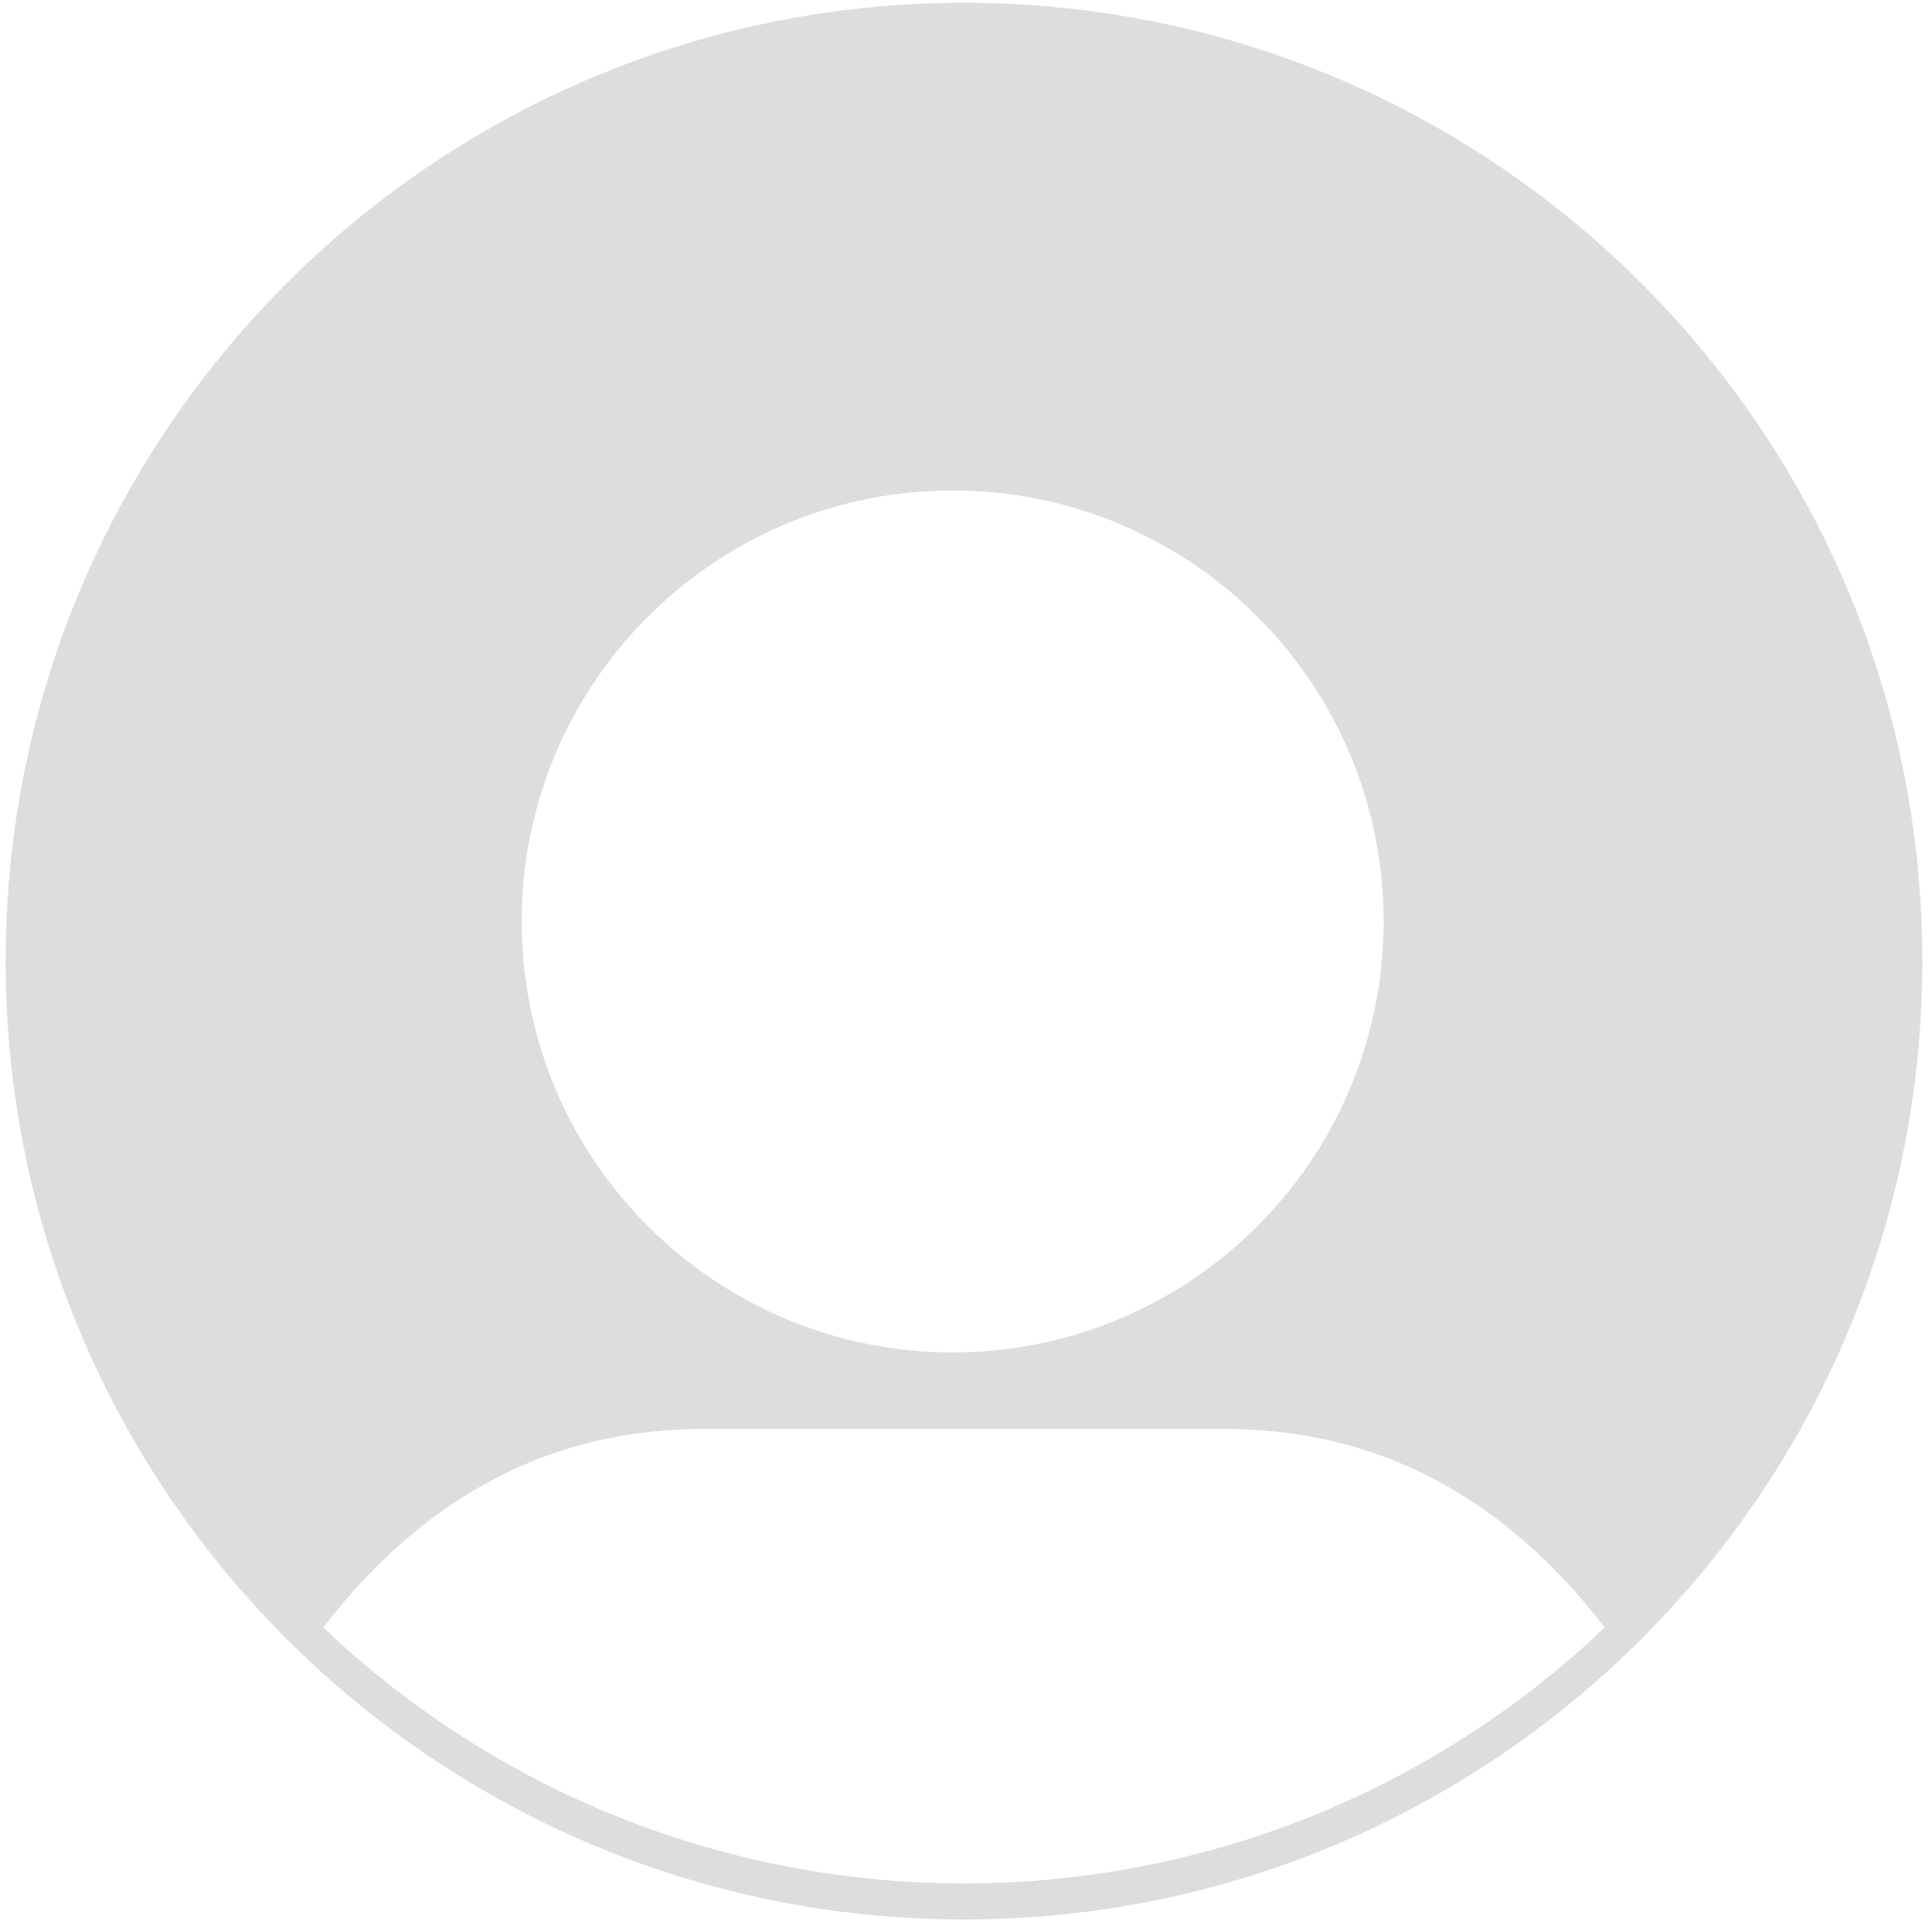
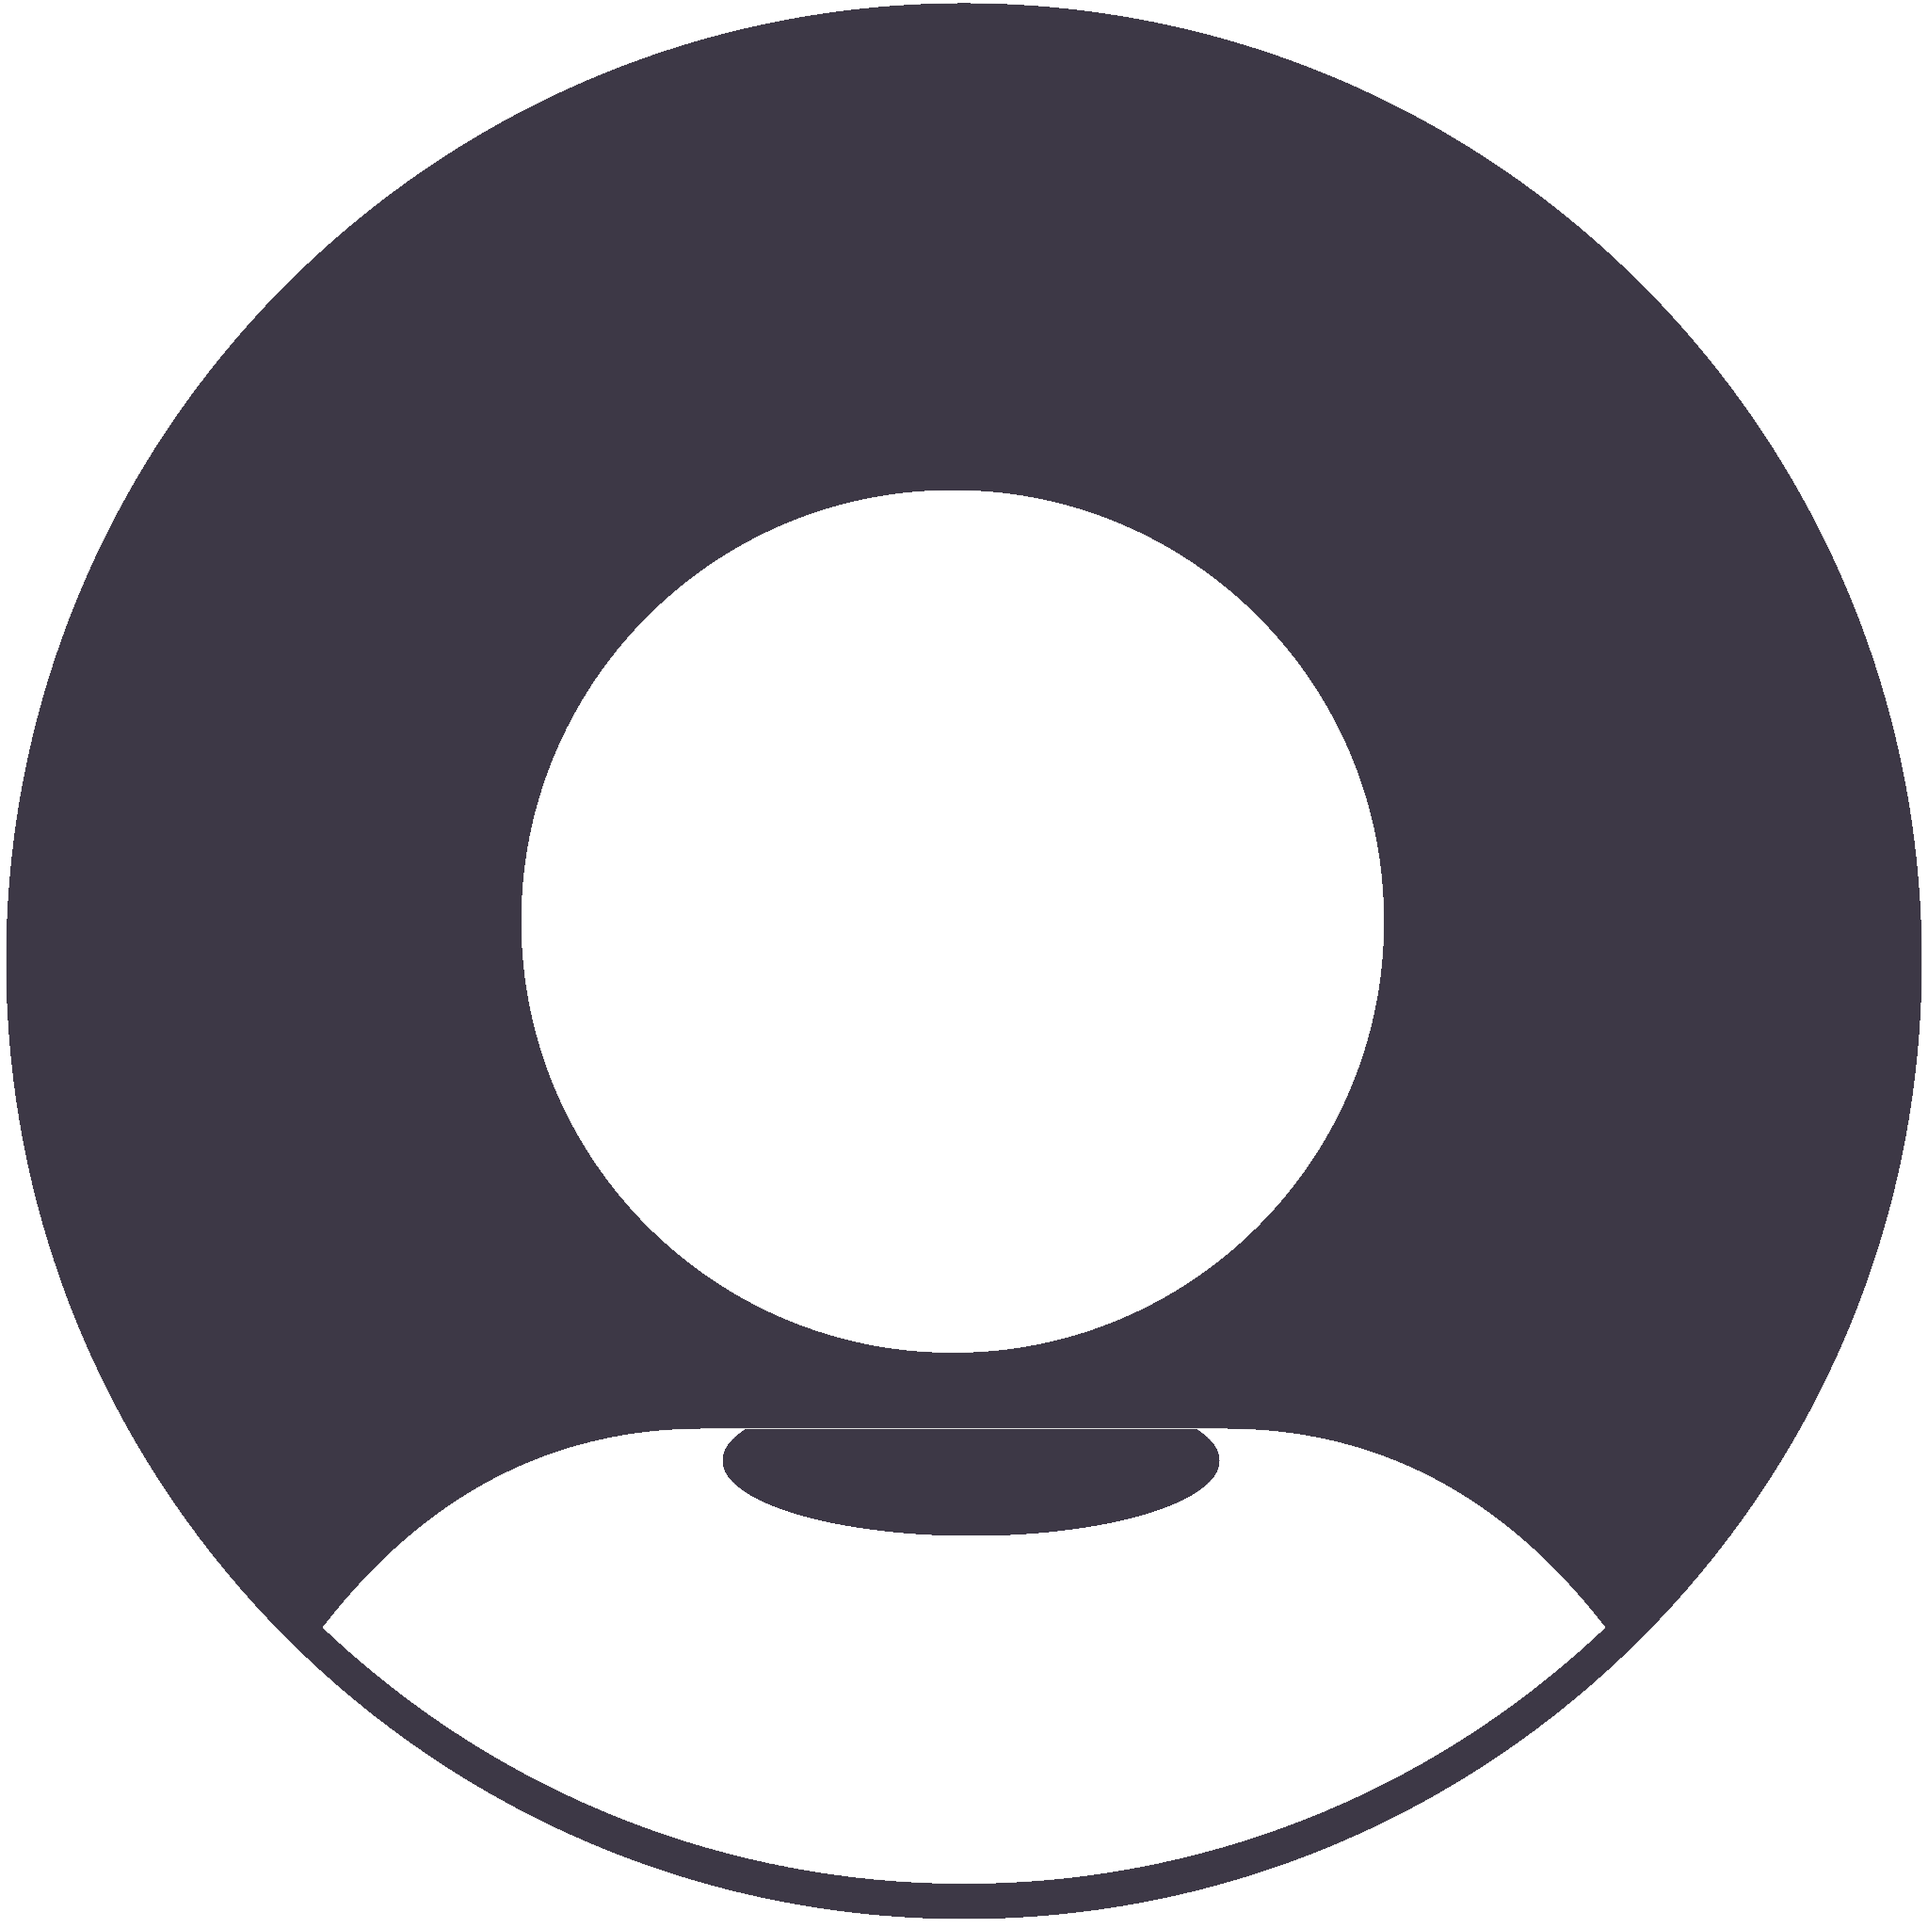
Add files via upload

diff --git a/master/footer-style.css b/master/footer-style.css
@@ -1,6 +1,6 @@
 .site-footer {
   width: 100%;
-  background-color: rgb(15, 122, 255);
+  background-color: rgb(18, 27, 63);
   color: white;
   padding: 20px 0;
   box-shadow: 0 0 20px rgba(0, 0, 0, 0.1);
@@ -12,16 +12,15 @@
 }
 
 .blue-section {
-  opacity: 50%;
   position: absolute;
   top: 0;
-  left: 0;
+  right: 0; /* Changed from left: 0; */
   width: 15%; /* Initial 25% width */
   height: 100%;
-  transform: skewX(+30deg);
-  background-color: blue; /* Initial blue color */
+  transform: skewX(-30deg); /* Changed from skewX(+30deg); */
+  background-color: rgb(14, 22, 56); /* Initial blue color */
   transition: width 0.5s ease, background-color 0.5s ease; /* Add a smooth transition effect */
-  z-index: 0;
+  z-index: 100;
 }
 
 .footer-container {
@@ -127,7 +126,8 @@
   }
 
   .blue-section {
-    transform: skewX(+15deg);
+    transform: skewX(-15deg); /* Changed from skewX(+15deg); */
   }
 }
+
 

diff --git a/master/products/style-card.css b/master/products/style-card.css
@@ -1,12 +1,10 @@
-
-
 .card {
   display: inline-block; /* Display cards next to each other */
   vertical-align: top; /* Align cards to the top */
   margin-right: 1.5px; /* Add some margin between cards */
   position: relative;
   width: 245px;
-  height: 350px;
+  height: 280px;
   
   border-radius: 10px;
   overflow: hidden;

diff --git a/master/products/card.html b/master/products/card.html
@@ -36,7 +36,7 @@
         </div>
 
         <p class="desc">
-            Description not available.
+            No Description.
         </p>
 
         <button>Read More</button>

diff --git a/profile/profile-page.php b/profile/profile-page.php
@@ -57,7 +57,9 @@
         }   
 
         form {
-            margin: 200px auto;
+            margin: 50px auto;
+            width: 300px;
+            height: 400px;
             text-align: center;
             padding: 20px;
             border: 1px solid #ccc;
@@ -71,7 +73,43 @@
         .fade-in form {
             opacity: 1;
         }
+
+        .order-status {
+            background-color: #ddd;
+            padding: 10px;
+            margin-top: 20px;
+            border-radius: 10px;
+        }
+
+        .delete-button {
+            background-color: rgb(237, 43, 43);
+            color: white;
+            border: none;
+            padding: 10px 10px;
+            position: absolute;
+            bottom: 20px;
+            right: 20px;
+            border-radius: 50px;
+            cursor: pointer;
+        }
+
+        .delete-button:hover {
+            background-color: rgb(189, 32, 32);
+        }
+
+
+        @media screen and (max-width: 700px) {
+            .back-link {
+                top: 20px; 
+                left: 10px; 
+            } 
+        }
+
     </style>
+
+
+
+
     <link rel="icon" type="image/x-icon" href="/project/favicon.ico">
     <link rel="stylesheet" href="../master/footer-style.css">
 </head>
@@ -82,8 +120,37 @@
     </div>
 
     <form class="fade-in" id="success-container">
-        <h1>[USERNAME]</h1>
-        <p>Orders:</p>
+        <h1>
+
+            <img src="../res/Default_pfp.png" width="110" height="110">
+
+        </h1>
+
+        <h2>
+        <?php
+        // Start session
+        session_start();
+
+        // Check if the username is set in the session
+        if (isset($_SESSION['username'])) {
+            // Retrieve the username from the session
+            $username = $_SESSION['username'];
+            
+            echo "<h1>$username</h1>";
+        } else {
+            // If username is not set, display default message
+            header("Location: /project/Login/construct.php");
+        }
+        ?>
+        </h2>
+
+        <h3 style="text-align: left;">Orders:</h3>
+        <div class="order-status">
+            <!-- Add your order status here -->
+        </div>
+
+        <button class="delete-button">Delete Account</button>
+
     </form>
 
     <?php include '../master/footer.php'; ?>

diff --git a/master/footer.php b/master/footer.php
@@ -36,28 +36,35 @@
     
 
 
-    
     <script>
-$(document).ready(function () {
+  $(document).ready(function () {
     var startScrollEffect = false; // Flag to determine when to start the effect
     var thresholdPercentage = 50; // Set the threshold percentage to start the effect
 
+    // Set the initial width of the blue section to 100% when the document is ready
+    $(".blue-section").css("width", "100%");
+
     $(window).scroll(function () {
-        var scrollPercentage = ($(window).scrollTop() / ($(document).height() - $(window).height())) * 100;
+      var scrollPercentage = ($(window).scrollTop() / ($(document).height() - $(window).height())) * 100;
+      var blueSectionWidth = 100 - Math.min(25 + scrollPercentage, 100); // Calculate the width of the blue section
 
-        // Check if the scroll percentage has reached the threshold
-        if (scrollPercentage >= thresholdPercentage) {
-            // Set the flag to true, indicating to start the effect
-            startScrollEffect = true;
-        }
+      // Check if the scroll percentage has reached the threshold
+      if (scrollPercentage >= thresholdPercentage) {
+        // Set the flag to true, indicating to start the effect
+        startScrollEffect = true;
+      }
 
-        // Apply the effect only if the flag is true
-        if (startScrollEffect) {
-            // Adjust the blue section width based on the scroll percentage
-            $(".blue-section").css("width", Math.min(25 + scrollPercentage, 100) + "%");
-        }
+      // Adjust the blue section width based on the scroll percentage
+      $(".blue-section").css("width", blueSectionWidth + "%");
+
+      // Set the initial width to 100% if the scroll percentage is less than the threshold
+      if (scrollPercentage < thresholdPercentage && !startScrollEffect) {
+        $(".blue-section").css("width", "100%");
+      } else if (scrollPercentage === 0) {
+        $(".blue-section").css("width", "100%");
+        startScrollEffect = false; // Reset the flag when scrolling back to the top
+      }
     });
-});
+  });
+</script>
 
-
-    </script>
